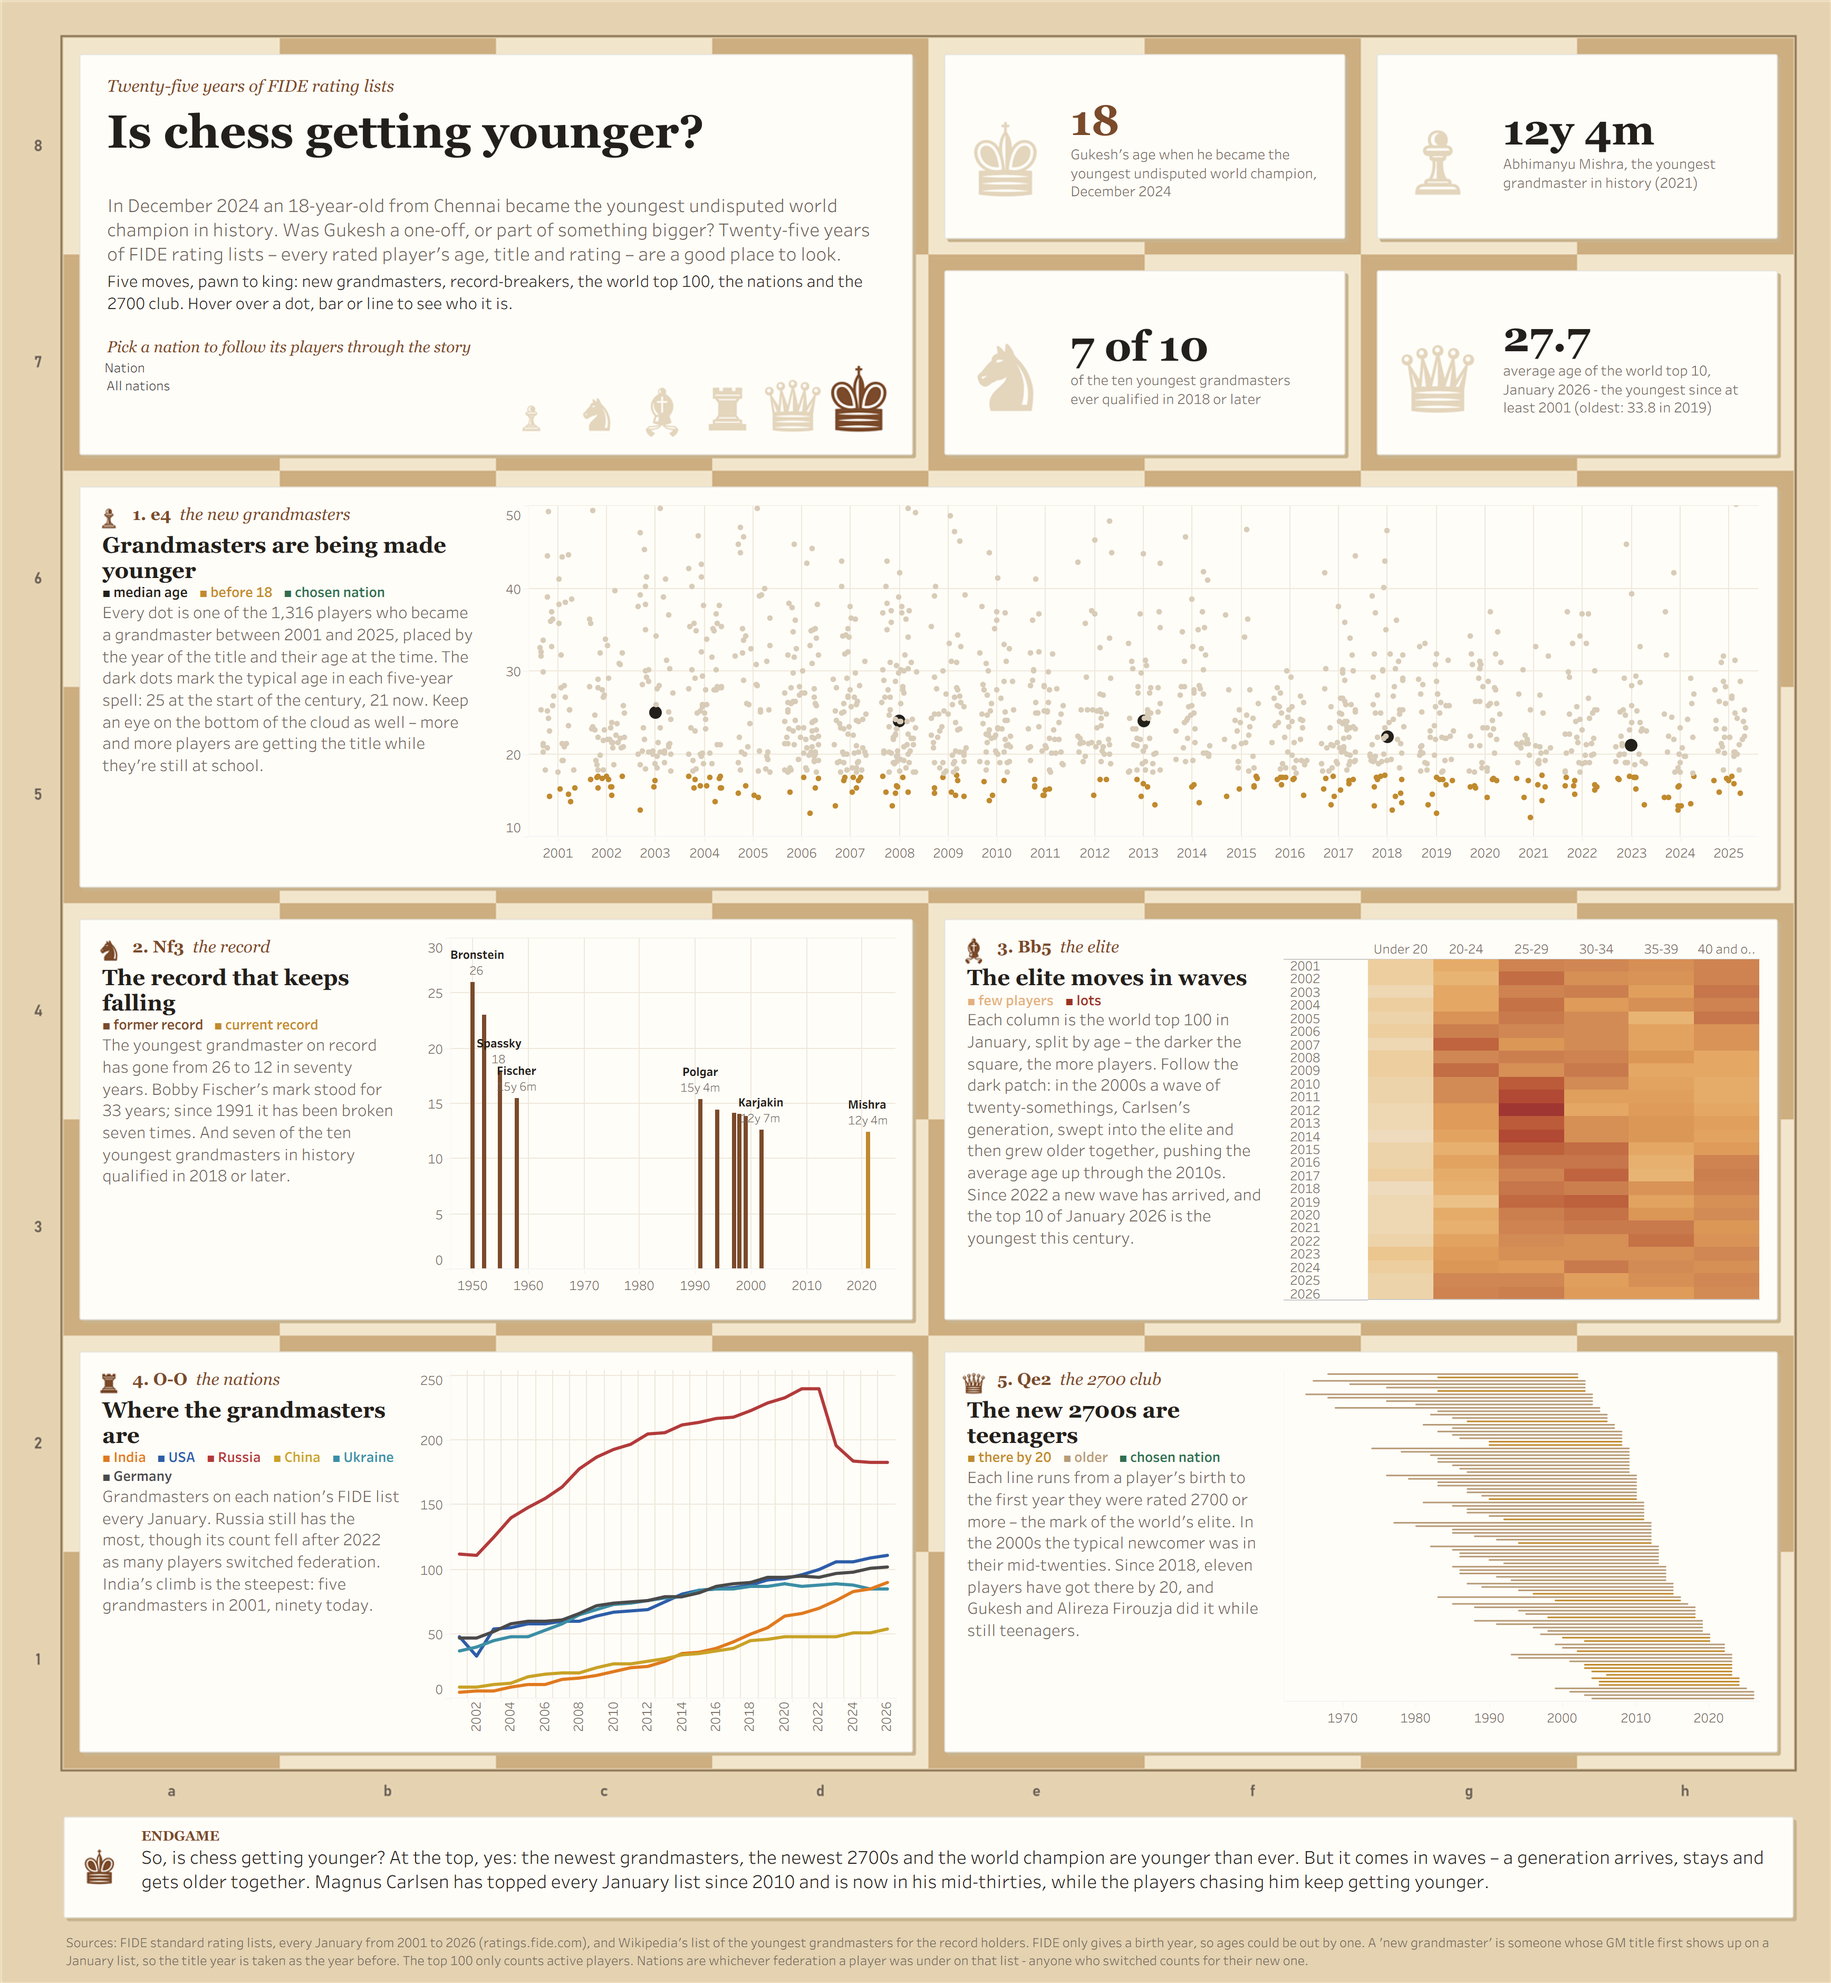
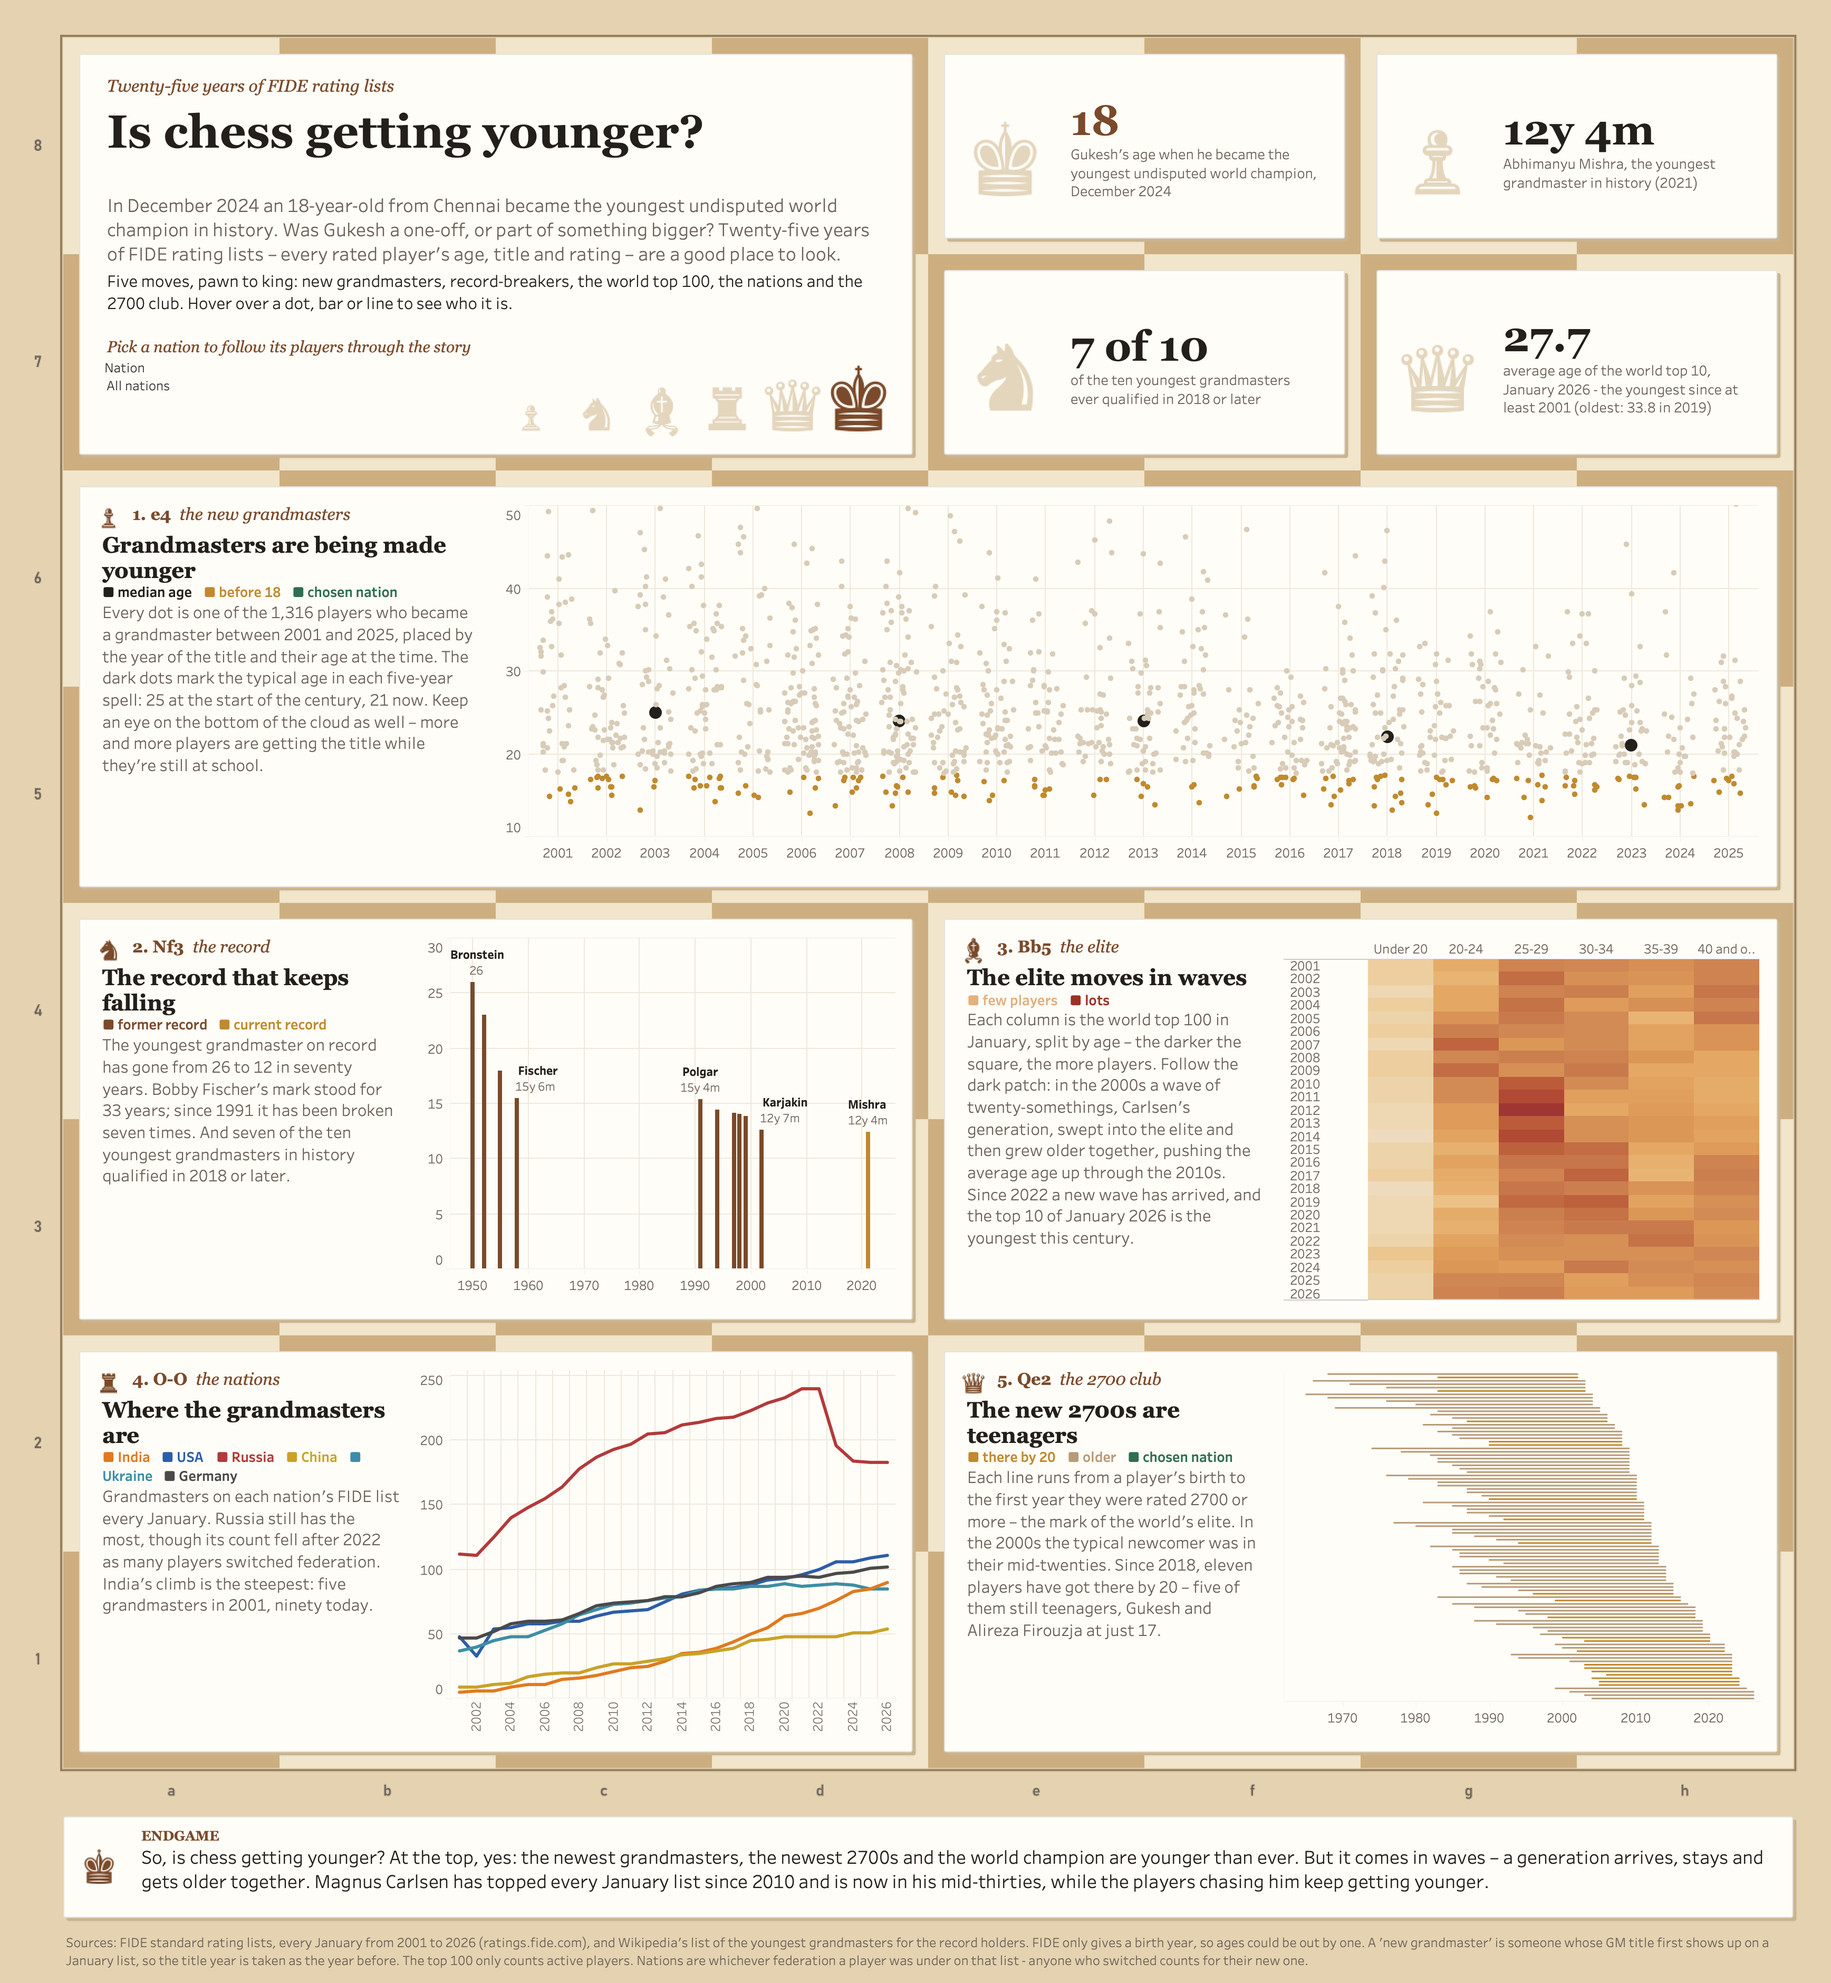
Fresh screenshots of all three dashboards, shown in the README

diff --git a/README.md b/README.md
@@ -8,10 +8,24 @@ Three Tableau dashboards on sport, each built from data I collected and cleaned 
 | [running](running/) | What did super shoes do to marathon running? | World Athletics season top lists, 2001-2025 | long scroll, a marathon down the page |
 | [ski-jumping](ski-jumping/) | Who rules the skies? | FIS World Cup results, 2001-2025 | landscape |
 
+## The dashboards
+
+### Is chess getting younger?
+
 ![Is chess getting younger?](chess/output/review.png)
 
+### What did super shoes do to marathon running?
+
+The marathon one is a long scroll, so it's shown smaller here. Click it for full size.
+
+<img src="running/output/review.png" alt="The fastest decade in marathon history" width="440">
+
+### Who rules the skies?
+
+![Who rules the skies?](ski-jumping/output/review.png)
+
 To look at a dashboard without rebuilding anything, open the packaged workbook (`.twbx`) in each project's `tableau/`
-folder in Tableau Desktop or Tableau Reader. Full-size screenshots are in each project's `output/` folder.
+folder in Tableau Desktop or Tableau Reader.
 
 ## Getting the data
 
